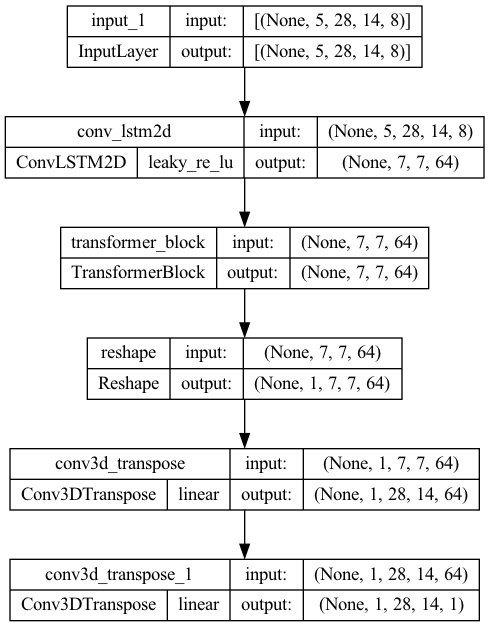
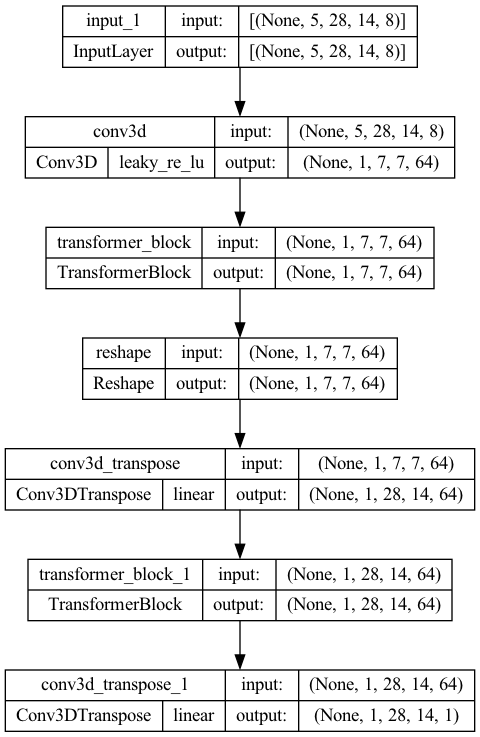
whole_area

Changed region(s): [[0.0, 0.0, 1.0, 1.0]]

diff --git a/ml/denoise3D_trans.py b/ml/denoise3D_trans.py
@@ -43,13 +43,11 @@ def MakeDenoise3DTrans(config_path,
     input_ = Input(shape=x_data_shape[1:])
     x = input_
     
-    x = ConvLSTM2D(filters=middle_filters, # On website 32
-                   kernel_size=(5, 5),
-                   strides=(4, 4),
-                   padding="same",
-                   activation=LeakyReLU(alpha=0.2),
-                   recurrent_activation='tanh',
-                   return_sequences=False)(x)
+    x = Conv3D(filters=middle_filters, # On website 32
+               kernel_size=(x_data_shape[1], 5, 5),
+               strides=(x_data_shape[1], 4, 2),
+               padding="same",
+               activation=LeakyReLU(alpha=0.2))(x)
     #x = BatchNormalization(axis=chanDim)(x)
     # x = LayerNormalization()(x)
     # x = Dropout(rate=0.1)(x)
@@ -93,13 +91,18 @@ def MakeDenoise3DTrans(config_path,
     # original depth of the image
     x = Convolution3DTranspose(filters=middle_filters, # On website 32
                                kernel_size=(y_data_shape[1], 5, 5),
-                               strides=(y_data_shape[1], 4, 4),
+                               strides=(y_data_shape[1], 4, 2),
                                padding="same",
                                activation='linear')(x)
     
     #x = BatchNormalization(axis=chanDim)(x)
     #x = LayerNormalization()(x)
-    
+    for _ in range(num_trans):
+        x = TransformerBlock(embed_dim=x.shape[-1], # Must always be prev_layer.shape[-1]
+                            num_heads=4,
+                            ff_dim=x.shape[-1], # Must always be next_layer.shape[-1]
+                            attn_axes=(1,2,3))(x)   # If input is (Batch, time, d1,...,dn, embed_dim), must be indices of (d1,...,dn)
+
     output = Convolution3DTranspose(filters=y_data_shape[4], 
                                     kernel_size=(y_data_shape[1], 3, 3),
                                     strides=(y_data_shape[1], 1, 1),

diff --git a/ml/denoise3D.py b/ml/denoise3D.py
@@ -39,13 +39,11 @@ def MakeDenoise(config_path,
     input_ = Input(shape=x_data_shape[1:])
     x = input_
     
-    x = ConvLSTM2D(filters=outer_filters,
-                   kernel_size=(5, 5), # orig 4, 2
-                   strides=(4, 4),  # orig 4, 2
-                   padding="same",
-                   activation=LeakyReLU(alpha=0.2),
-                   recurrent_activation='tanh',
-                   return_sequences=False)(x)
+    x = Conv3D(filters=outer_filters,
+               kernel_size=(x_data_shape[1], 5, 5), # orig 4, 2
+               strides=(x_data_shape[1], 4, 2),  # orig 4, 2
+               padding="same",
+               activation=LeakyReLU(alpha=0.2))(x)
     #x = BatchNormalization(axis=chanDim)(x)
     x = LayerNormalization()(x)
     x = Dropout(rate=0.1)(x)
@@ -78,7 +76,7 @@ def MakeDenoise(config_path,
     
     x = Convolution3DTranspose(filters=outer_filters, 
                                kernel_size=(y_data_shape[1], 5, 5),
-                               strides=(y_data_shape[1], 4, 4),
+                               strides=(y_data_shape[1], 4, 2),
                                padding="same",
                                activation=LeakyReLU(alpha=0.2))(x)
     #x = BatchNormalization(axis=chanDim)(x)
@@ -92,7 +90,7 @@ def MakeDenoise(config_path,
     #----------------------------------------------------------------
     autoencoder = keras.Model(input_, output, name="autoencoder")
     
-    # print(autoencoder.summary())
+    #print(autoencoder.summary())
     # keras.utils.plot_model(autoencoder, show_shapes=True, show_layer_activations=True, to_file=os.path.join('SavedModels/Figs', 'Denoise3D1Stage.png'))
 
     return autoencoder
